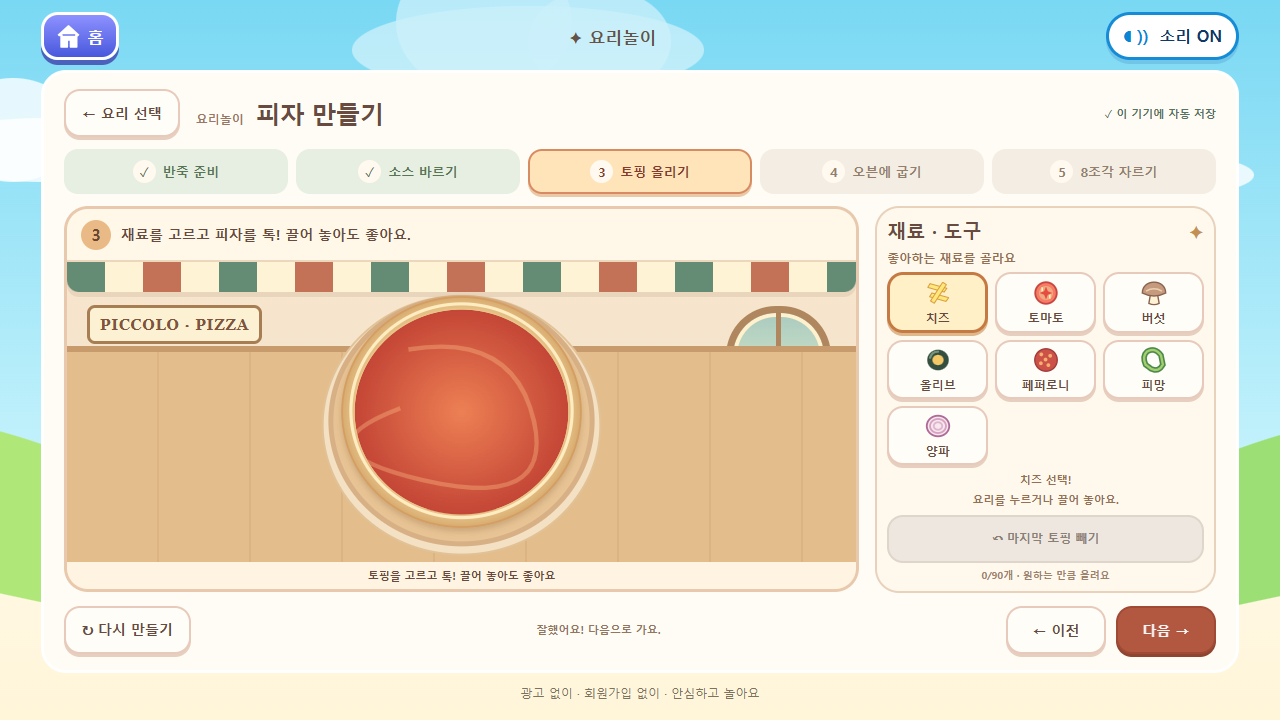
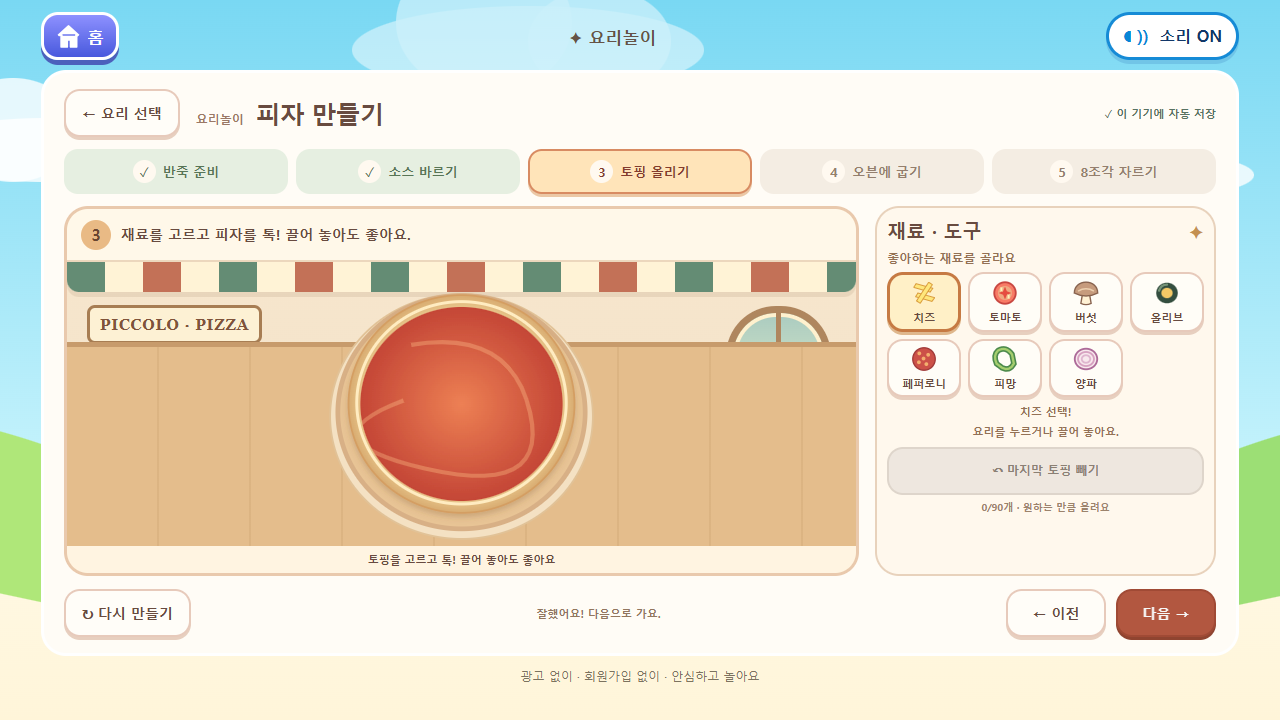
fix: fit cooking tools on short tablets across font environments

Changed region(s): [[0.0312, 0.3667, 0.9688, 0.9778]]

diff --git a/tests/cooking.spec.ts b/tests/cooking.spec.ts
@@ -9,6 +9,7 @@ async function at(page:Page,x:number,y:number){return page.locator('[data-pizza-
 async function drag(page:Page,from:{x:number;y:number},to:{x:number;y:number}){await page.mouse.move(from.x,from.y);await page.mouse.down();await page.mouse.move(to.x,to.y,{steps:8});await page.mouse.up()}
 async function tool(page:Page,name:string){const button=page.getByRole('button',{name:name+' 가져오기',exact:true});if(page.viewportSize()!.width<1000){await button.click();await page.locator('[data-pizza-surface]').scrollIntoViewIfNeeded();const q=await at(page,300,240);await page.touchscreen.tap(q.x,q.y)}else{const b=await button.boundingBox();await drag(page,{x:b!.x+b!.width/2,y:b!.y+b!.height/2},await at(page,300,240))}await expect(page.locator('.pizza-equipped')).toHaveCount(1);await page.locator('[data-pizza-surface]').scrollIntoViewIfNeeded()}
 async function roll(page:Page){await tool(page,'밀대');for(let i=0;i<6;i++)await drag(page,await at(page,280,220),await at(page,i%2?280:380,i%2?320:220));await expect(page.getByRole('button',{name:'다음 →',exact:true})).toBeEnabled()}
+test('short tablet keeps dough and sauce tools inside the screen',async({page})=>{await page.setViewportSize({width:1280,height:720});await enter(page);expect(await page.evaluate(()=>document.documentElement.scrollHeight<=innerHeight)).toBe(true);await roll(page);await page.getByRole('button',{name:'다음 →',exact:true}).click();await page.getByRole('button',{name:'토마토 소스',exact:true}).click();expect(await page.evaluate(()=>document.documentElement.scrollHeight<=innerHeight)).toBe(true);await page.screenshot({path:'docs/cooking-touch/sauce-tablet-16x9.png',fullPage:true})})
 async function toppings(page:Page,sauce='토마토 소스') {await enter(page);await roll(page);await page.getByRole('button',{name:'다음 →',exact:true}).click();await page.getByRole('button',{name:sauce,exact:true}).click();await tool(page,'숟가락');for(const z of sauceZones){const q=await at(page,z.x,z.y);await page.touchscreen.tap(q.x,q.y)}await expect(page.getByRole('button',{name:'다음 →',exact:true})).toBeEnabled();await page.getByRole('button',{name:'다음 →',exact:true}).click()}
 test('pizza state validation and previous revision separation',()=>{const good=freshPizza(pizza);expect(validPizza(good,pizza)).toBe(true);for(const bad of [null,{}, {...good,step:99},{...good,interaction:{...good.interaction,cuts:[9]}},{...good,interaction:{...good.interaction,sauceCells:[1,1]}},{...good,interaction:{...good.interaction,oven:'baking'}}])expect(validPizza(bad,pizza)).toBe(false);expect(key).toContain(':r2')})
 test('hands-on pizza: roll, cream, toppings, oven drag and eight cuts',async({page})=>{

diff --git a/src/games/cooking/pizza/pizza.css b/src/games/cooking/pizza/pizza.css
@@ -5,3 +5,4 @@
 @media(prefers-reduced-motion:reduce){.pizza-workshop *{animation:none!important;transition:none!important}}
 .pizza-counter{background:linear-gradient(transparent 0 28%,#c79b6c 28% 30%,#e4bd8c 30%)}.pizza-counter:before{content:"";position:absolute;inset:30% 0 0;background:repeating-linear-gradient(90deg,transparent 0 90px,#b78d5930 90px 92px);pointer-events:none}.pizza-workshop .cook-ingredient{min-height:68px;padding:4px 2px;gap:3px}.pizza-workshop .cook-ingredient .ingredient-art{width:34px;height:34px}@media(min-width:1001px) and (max-height:760px){.pizza-workshop .cook-ingredient{min-height:58px}.pizza-workshop .cook-ingredient .ingredient-art{width:28px;height:28px}}
 .pizza-drag-ghost .ingredient-art{width:64px;height:64px}.pizza-drag-ghost .food-art{width:180px;height:144px}
+@media(min-width:1001px) and (max-height:760px){.pizza-workshop .cook-kitchen{height:clamp(335px,calc(100svh - 350px),650px)}.pizza-workshop .cook-ingredients{grid-template-columns:repeat(4,minmax(0,1fr))}.pizza-workshop .cook-ingredient{font-size:11px;min-height:58px}.pizza-panel>h3{display:none}.cooking-game .pizza-panel .pizza-tool-card{min-height:80px;padding:5px;gap:3px;flex-direction:row;flex-wrap:wrap}.pizza-panel .pizza-tool-art{width:92px;height:48px}.pizza-tool-card>span{width:100%}.pizza-panel .cook-panel-note{font-size:11px;line-height:1.4;padding:5px 0}.pizza-panel .pizza-action-count+.cook-panel-note{display:none}.pizza-panel .pizza-action-count{padding:6px;font-size:13px}.pizza-panel .sauce-bowl{width:40px;height:26px}.pizza-panel .sauce-options{margin-bottom:7px}.pizza-panel .sauce-options>button{font-size:11px;padding:5px 3px}}

diff --git a/docs/cooking-touch/README.md b/docs/cooking-touch/README.md
@@ -44,3 +44,5 @@
 작업 브랜치: `feat/pizza-touch-workshop`. PR로 검토하고 자동 병합·배포하지 않습니다.
 
 최종 검증 기록: TypeScript·Vite·Pages 검사와 전체 브라우저 검사 53개 통과. 점선 중간 터치 판정을 추가한 뒤 실제 피자 전체 플레이를 재검증했습니다.
+
+GitHub 검사 환경의 글꼴 차이에서 발견된 짧은 화면 넘침을 조정했습니다. 16:9 태블릿은 토핑 4열과 컴팩트한 도구 패널을 사용합니다. 반죽·소스·토핑 화면 내 표시 검사 3개 재통과. sauce-tablet-16x9.png를 추가했습니다.
